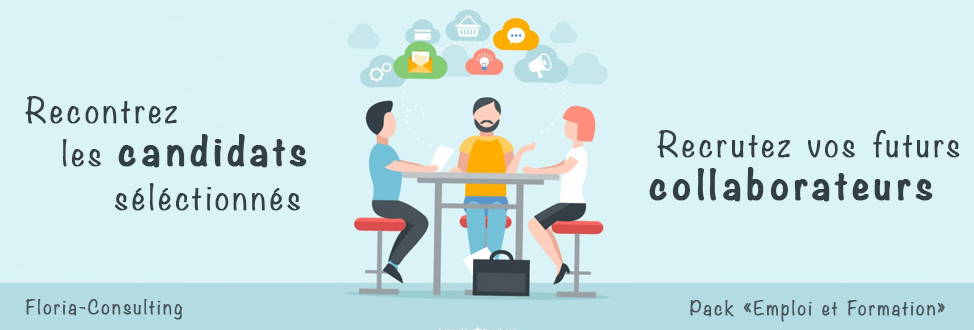
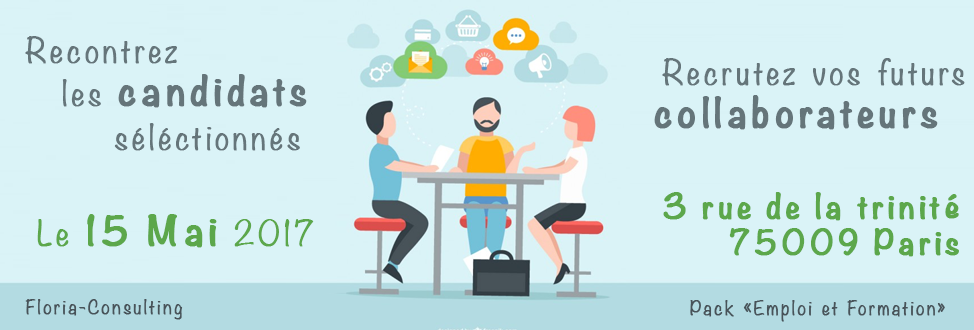
Ajout image post rencontrez-les-candidats

diff --git a/_posts/2017-04-10-rencontrez-nos-candidats.md b/_posts/2017-04-10-rencontrez-nos-candidats.md
@@ -3,12 +3,12 @@ layout: post
 title:  "Rencontrez nos candidats"
 date:   2017-04-10 22:24:01 +0100
 categories: recrutement formation
-og_image: assets/docs/preview-emploi-et-formation.png
+og_image: assets/docs/banner-rencontrez-les-candidats.png
 ---
 
 Dans le cadre du pack "Emploi et Formation" de Floria-Consulting, nous vous invitons à venir à la rencontre de nos candidats.
 
-![image here]()
+![image here](assets/docs/banner-rencontrez-les-candidats.png)
 
 Lors de cet événement, vous rencontrerez nos candidats, sélectionnés avec soin, pouvant prétendre au cursus de formation JAVASCRIPT que nous leurs 
 dispenserons durant 2 mois. Seule les personnes choisis par les recruteurs suivront le parcour de formation. Vos futurs collaborateurs,
